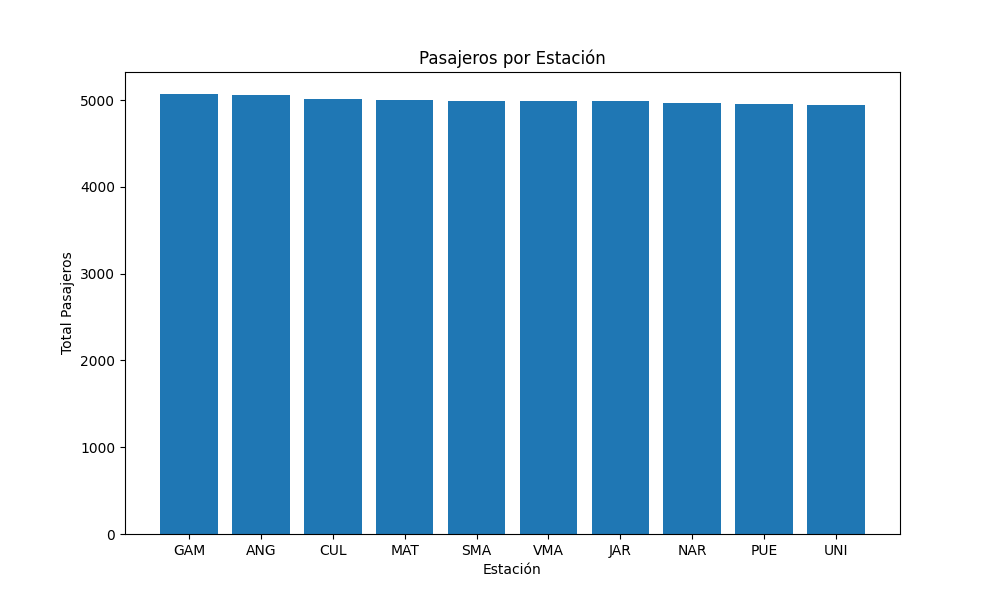
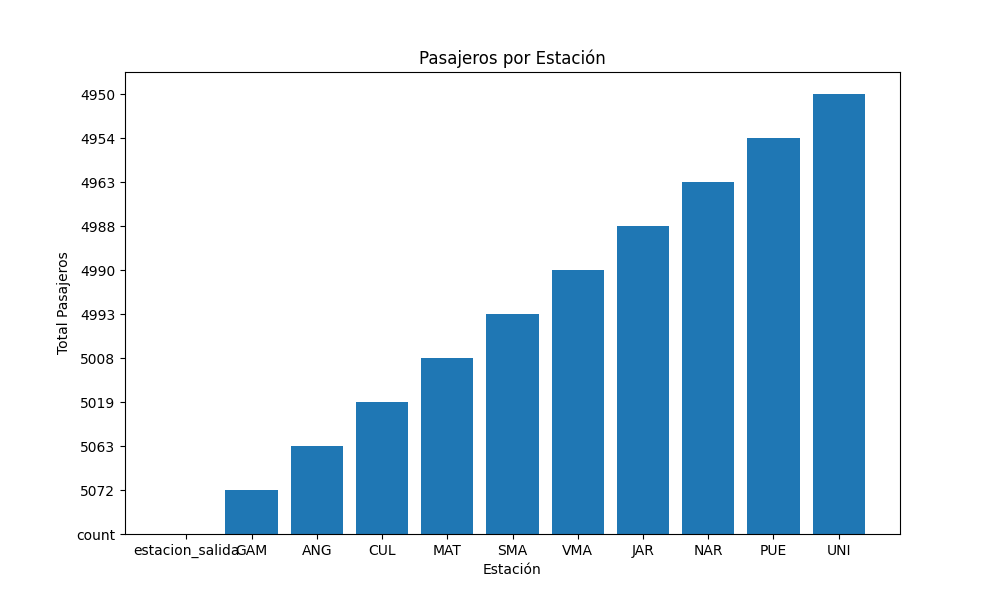
v

diff --git a/frontend/script.js b/frontend/script.js
@@ -1,40 +1,37 @@
 const tabla = document.getElementById("tabla");
 
-// consumir API
-fetch("http://localhost:5000/estaciones")
+tabla.innerHTML = "";
 
-    .then(response => response.json())
+fetch("http://127.0.0.1:5050/estaciones")
+  .then(response => response.json())
+  .then(data => {
 
-    .then(data => {
+    let contador = 1;
 
-        tabla.innerHTML = "";
+    data.forEach(item => {
 
-        let contador = 1;
+      tabla.innerHTML += `
+        <tr>
+          <td>${contador++}</td>
+          <td>${item.estacion_salida}</td>
+          <td>${item.total_pasajeros}</td>
+        </tr>
+      `;
 
-        data.forEach(item => {
-
-            tabla.innerHTML += `
-
-                <tr>
-                    <td>${contador++}</td>
-                    <td>${item.estacion_salida}</td>
-                    <td>${item.total_pasajeros}</td>
-                </tr>
-
-            `;
-        });
-
-    })
-
-    .catch(error => {
-
-        console.error("Error:", error);
-
-        tabla.innerHTML = `
-            <tr>
-                <td colspan="3">
-                    Error cargando datos
-                </td>
-            </tr>
-        `;
     });
+
+  })
+
+  .catch(error => {
+
+    console.error(error);
+
+    tabla.innerHTML = `
+      <tr>
+        <td colspan="3">
+          Error cargando datos
+        </td>
+      </tr>
+    `;
+
+  });

diff --git a/api/app.py b/api/app.py
@@ -15,7 +15,7 @@ CORS(app)
 # =========================================
 
 client = MongoClient(
-    "mongodb://mongodb:27017/"
+    "mongodb://localhost:27017/"
 )
 
 db = client["pmr_db"]
@@ -60,6 +60,6 @@ if __name__ == "__main__":
 
     app.run(
         host="0.0.0.0",
-        port=5000,
+        port=5050,
         debug=True
     )